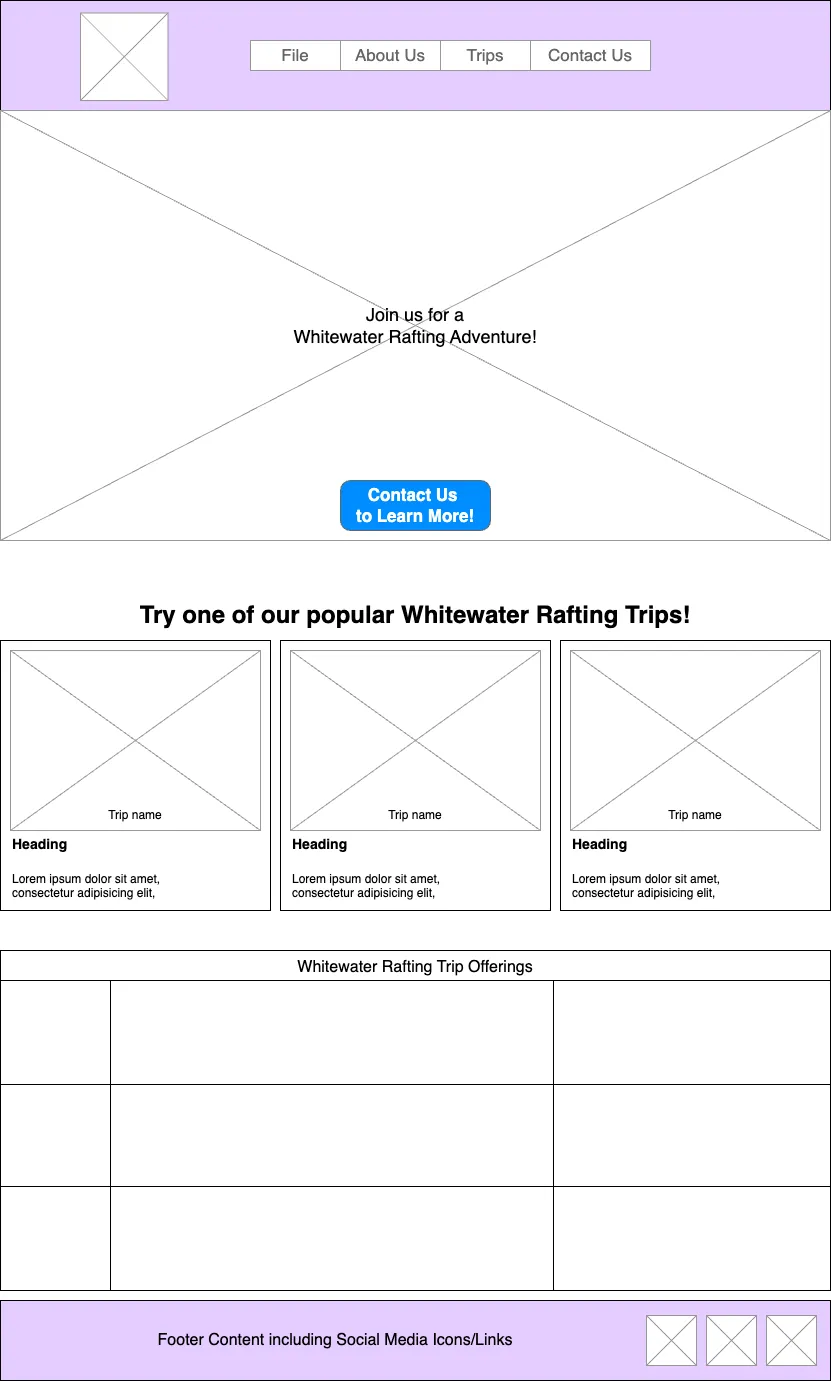
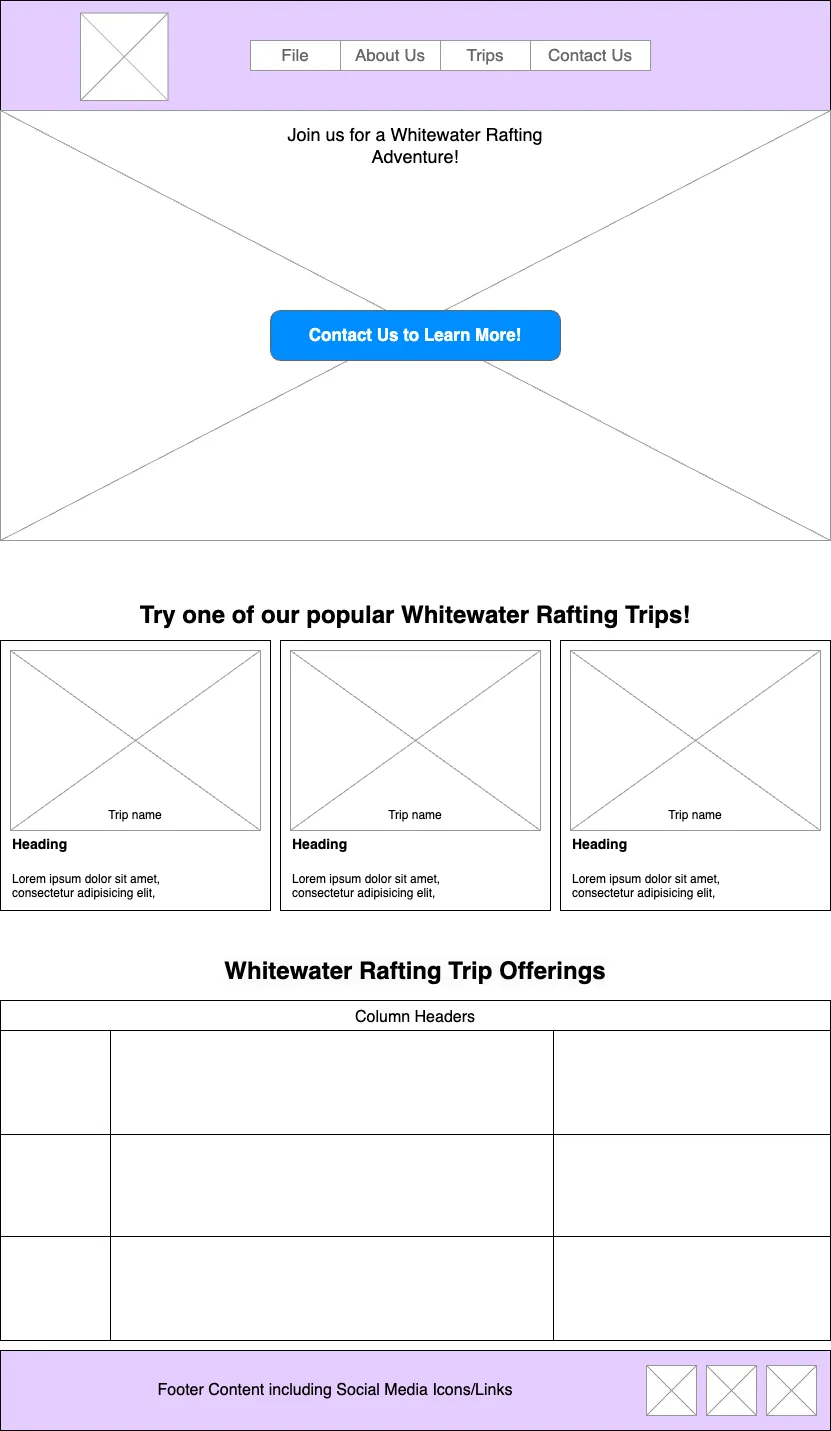
update trips wireframe and link

diff --git a/wwr/trips.html b/wwr/trips.html
@@ -155,7 +155,7 @@
             </section>
         </main>
         <footer>
-            <p>&copy; 2024 | Whitewater Rafting | James Winston Clawson | <a href="images/contact-us.webp">Wireframe</a></p>
+            <p>&copy; 2024 | Whitewater Rafting | James Winston Clawson | <a href="images/trips.webp">Wireframe</a></p>
             <nav class="sociallinks">
                 <a href="#"><img src="images/x_icon-128.webp" alt="X Logo"></a>
                 <a href="#"><img src="images/4362964_facebook_fb_logo_socialmedia_icon.png" alt="Facebook Logo"></a>
